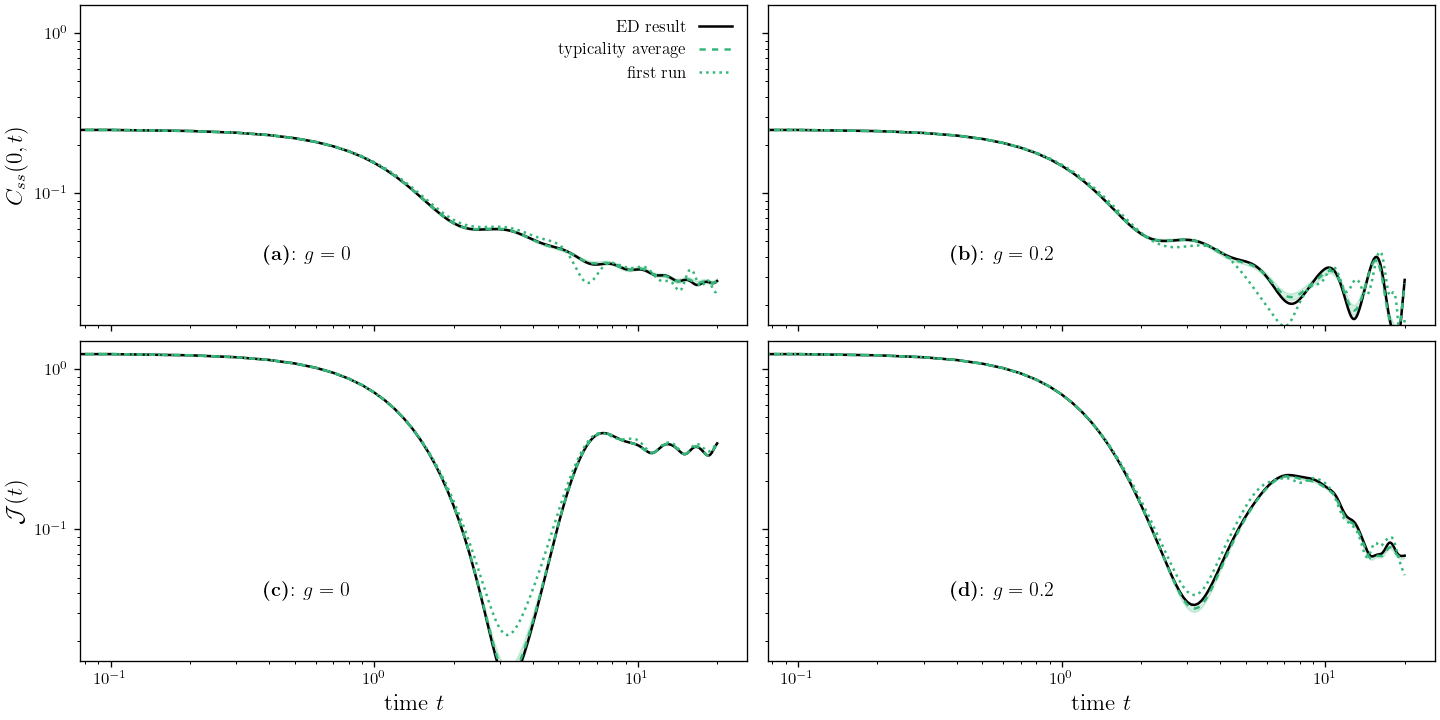
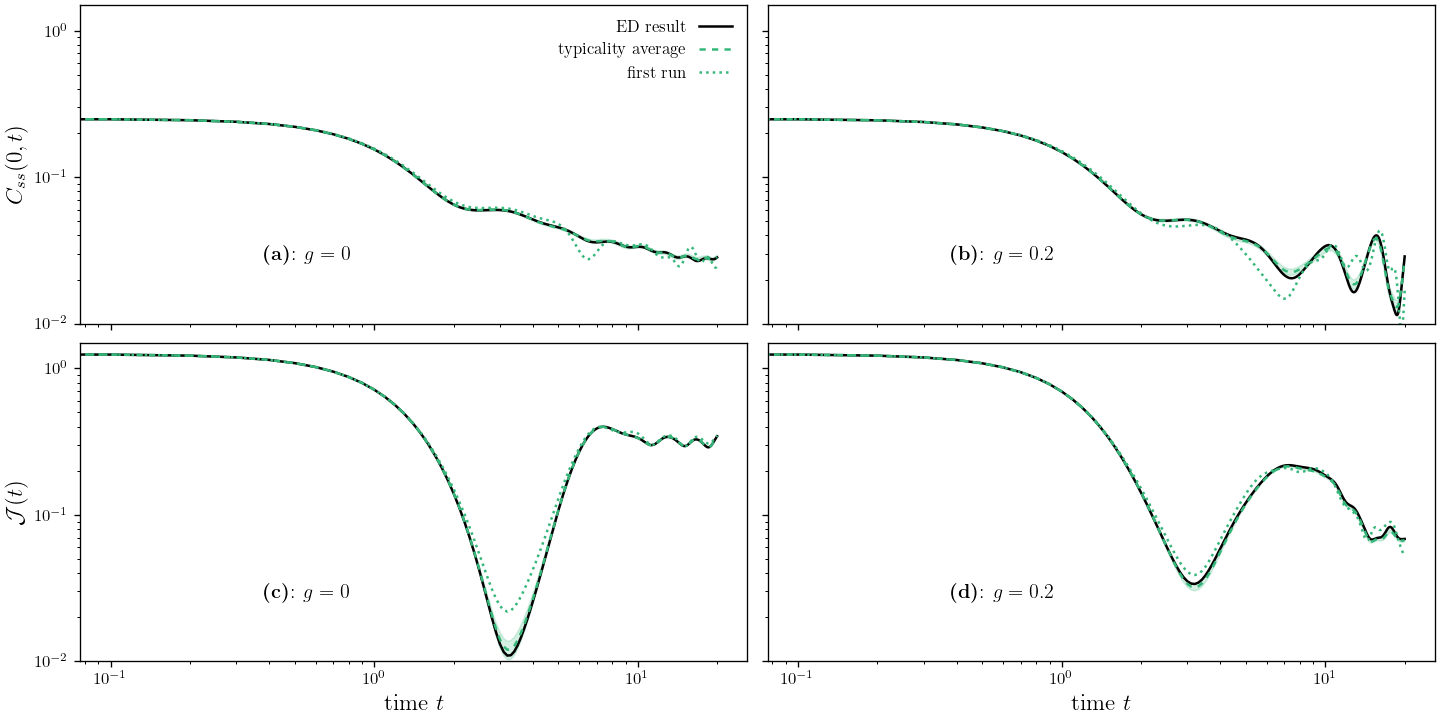
Changed compare_ED_typicality axis limits

diff --git a/ScriptsForPlotting/plot_compare_ED_typicality.py b/ScriptsForPlotting/plot_compare_ED_typicality.py
@@ -86,7 +86,7 @@ for i,g in enumerate(g_list):
         axs[j,i].fill_between(t,average_value - 2*run_sem,average_value+2*run_sem,color=bright_color,alpha=0.2) #https://jakevdp.github.io/PythonDataScienceHandbook/04.03-errorbars.html
         axs[j,i].plot(t,first_run,color=bright_color,linestyle=':',label='first run')
         
-        axs[j,i].set_ylim(top=1.5,bottom=0.015)
+        axs[j,i].set_ylim(top=1.5,bottom=0.01)
         
         axs[j,i].set_xscale('log')
         axs[j,i].set_yscale('log')
